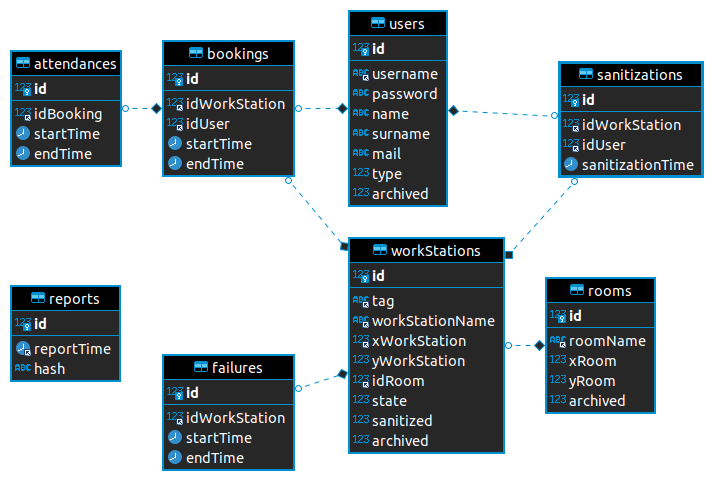
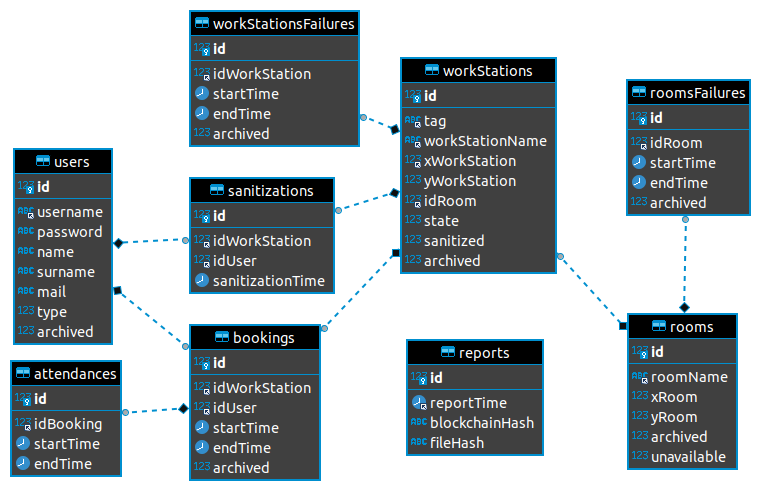
aggiornata sezione db

diff --git a/esterni/ManualeManutentore/res/sections/database.tex b/esterni/ManualeManutentore/res/sections/database.tex
@@ -66,7 +66,8 @@ Entità che raccoglie i dati relativi alle prenotazioni di una postazione. È de
 	\item idWorkStation: identificativo della postazione prenotata;
 	\item idUser: identificativo dell'utente che ha effettuato la prenotazione;
 	\item startTime: data e ora di inizio della prenotazione;
-	\item endTime: data e ora di fine della prenotazione. 
+	\item endTime: data e ora di fine della prenotazione;
+	\item archived: segnala se la prenotazione sia stato archiviata: 0 non archiviata, 1 archiviata.
 \end{itemize}
 
 \paragraph{Users}
@@ -96,16 +97,28 @@ Entità che raccoglie le certificazioni generate dal sistema. È descritta dai s
 \begin{itemize}
 	\item id: identificativo della certificazione;
 	\item reportTime: data e ora in cui è avvenuta la certificazione;
-	\item hash: hash della certificazione.
+	\item blockchainHash: indirizzo della transazione in cui il fileHash è stato salvato;
+	\item fileHash: hash della certificazione.
 \end{itemize}
 
-\paragraph{Failures}
+\paragraph{workStationsFailures}
 Entità che raccoglie i guasti relativi alle postazioni. È descritta dai seguenti campi:
 \begin{itemize}
 	\item id: identificativo del guasto;
 	\item idWorkStation: identificativo della postazione soggetta a guasto;
 	\item startTime: data e ora di inizio guasto;
 	\item endTime: data e ora di fine guasto.
+	\item archived: segnala se il guasto sia stato archiviato: 0 non archiviato, 1 archiviato.
+\end{itemize}
+
+\paragraph{roomsFailures}
+Entità che descrive le stanze inaccessibili. È descritta dai seguenti campi:
+\begin{itemize}
+	\item id: identificativo del guasto;
+	\item idRoom: identificativo della stanza inaccessibile;
+	\item startTime: data e ora di inizio guasto;
+	\item endTime: data e ora di fine guasto.
+	\item archived: segnala se il guasto sia stato archiviato: 0 non archiviato, 1 archiviato.
 \end{itemize}
 
 \paragraph{WorkStations}
@@ -129,5 +142,6 @@ Entità che raccoglie i dati relativi alle stanze. È descritta dai seguenti cam
 	\item roomName: nome della stanza;
 	\item xRoom: dimensione x (lunghezza) della stanza. Si assume che le stanze siano rettangolari;
 	\item yRoom: dimensione y (larghezza) della stanza;
-	\item archived: segnala se la stanza sia stata archiviata: 0 non archiviata, 1 archiviata.
+	\item archived: segnala se la stanza sia stata archiviata: 0 non archiviata, 1 archiviata;
+	\item unavailable: segnala se la stanza sia inaccessibile: 0 accessibile, 1 non accessibile.
 \end{itemize}

diff --git a/esterni/ManualeManutentore/res/registro.tex b/esterni/ManualeManutentore/res/registro.tex
@@ -13,6 +13,8 @@
 
 	%0.0.2 & Revisione documento & 2019-11-24 & Nome Cognome & Verificatore \\
 	%\hline
+	0.1.7 & Stesura e verifica §5.3 & 2021-06-03 & \begin{tabular}{c c} Antonio Badan \\  \end{tabular} & \begin{tabular}{c c} Amministratore\\ Verificatore \end{tabular} \\
+	\hline
 	0.1.6 & Approvazione del documento & 2021-05-09 & Damiano Bertoldo & Responsabile \\
 	\hline
 	0.0.6 & Stesura e verifica §7 e §8 & 2021-05-09 & \begin{tabular}{c c} Samuele De Grandi\\ Daniele Spigolon \end{tabular} & \begin{tabular}{c c} Amministratore\\ Verificatore \end{tabular} \\
